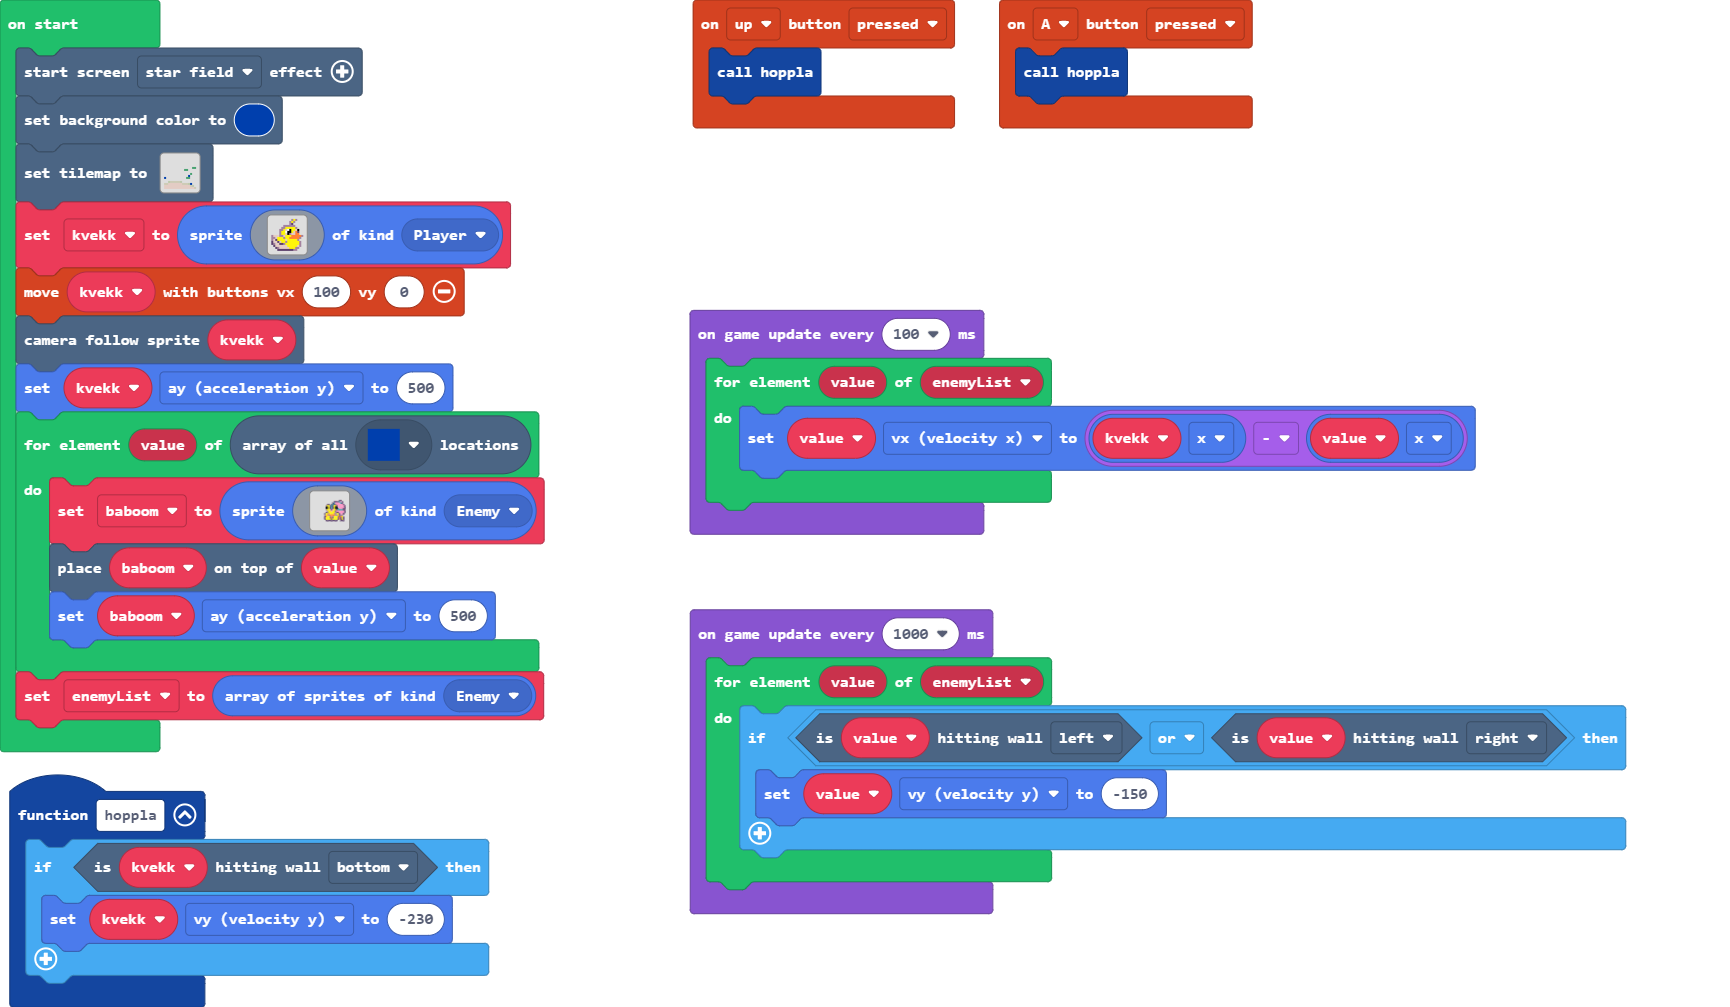
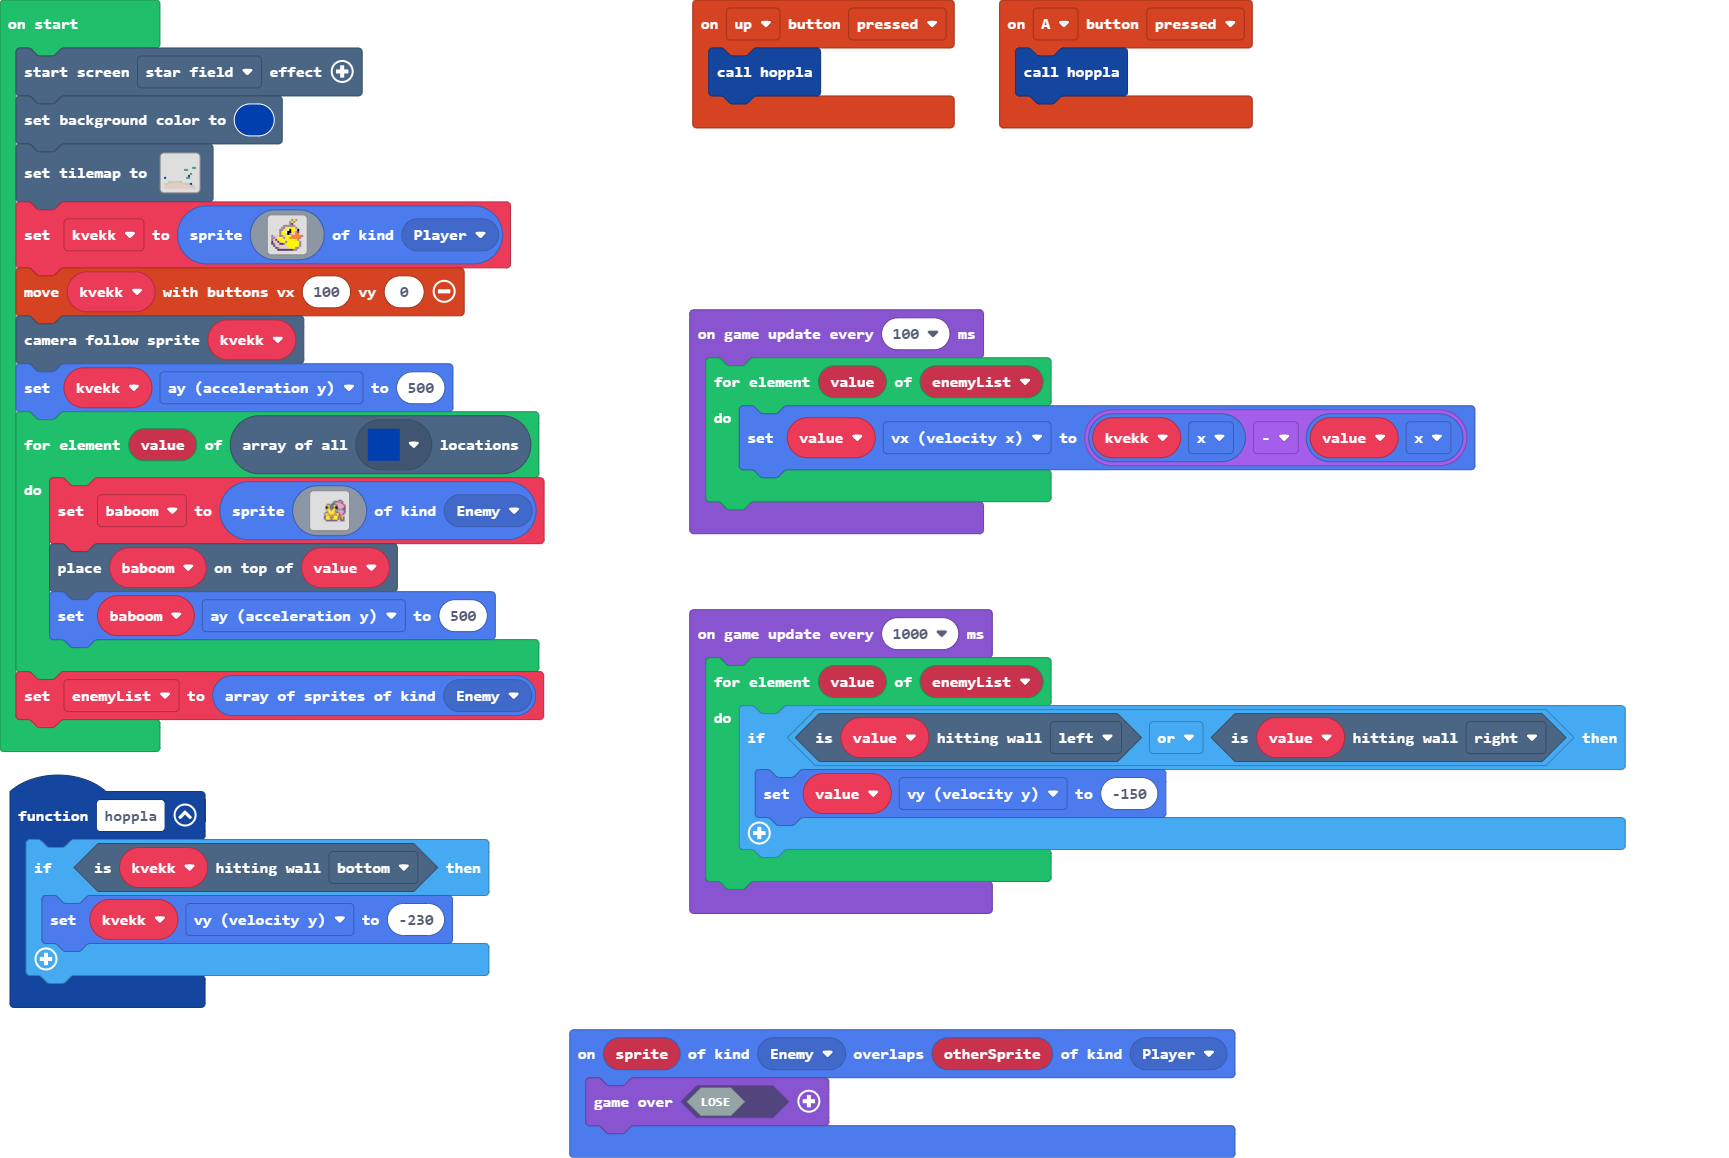
Update main.blocks, main.ts

diff --git a/main.ts b/main.ts
@@ -9,6 +9,9 @@ function hoppla () {
         kvekk.vy = -230
     }
 }
+sprites.onOverlap(SpriteKind.Enemy, SpriteKind.Player, function (sprite, otherSprite) {
+    game.over(false)
+})
 let baboom: Sprite = null
 let kvekk: Sprite = null
 effects.starField.startScreenEffect()
